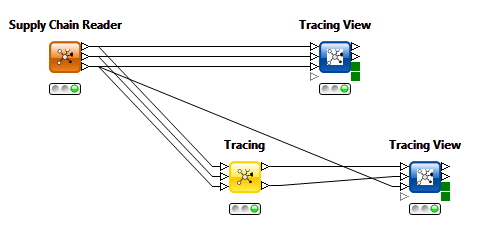
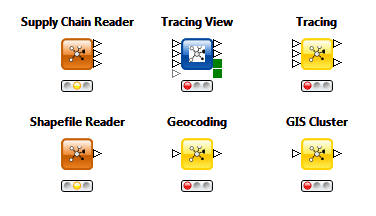
foodchainlab overview updated

diff --git a/GitHubPages/documents/foodchainlab_overview/overview.tex b/GitHubPages/documents/foodchainlab_overview/overview.tex
@@ -12,25 +12,40 @@
  
 \begin{document}
 \maketitle
- 
-\section{Tracing}
+
+\section{Available Nodes}
 \begin{frame}
 	\begin{center}
   		\includegraphics[height=0.4\textheight]{1.png}
 	\end{center}
 	\begin{itemize}
-		\item
+		\item Detailed descriptions all nodes are available in the \textbf{Node Description} view of KNIME.
+		\item All inputs and outputs are either \textbf{data tables} (triangles) or \textbf{images} (green square). Therefore standard KNIME nodes (\textbf{Row Filter}, \textbf{Image Port Writer}, ...) can be used in FoodChain-Lab workflows.		
+	\end{itemize}
+\end{frame}
+ 
+\section{Tracing}
+\begin{frame}
+	\begin{center}
+  		\includegraphics[height=0.4\textheight]{2.png}
+	\end{center}
+	\begin{itemize}
+		\item Supply chain data is read from the internal database via the \textbf{Supply Chain Reader}.
+		\item This data can be visualized with the \textbf{Tracing View}. The \textbf{Tracing View} also allows to perform a tracing on the data.
+		\item The \textbf{Tracing} node performs tracing without visualization. Its output can be used in the \textbf{Tracing View} (e.g. to perform some tracings as a preprocessing step)
 	\end{itemize}
 \end{frame}
 
 \section{Using GIS data}
 \begin{frame}
 	\begin{center}
-  		\includegraphics[height=0.6\textheight]{2.png}
+  		\includegraphics[height=0.6\textheight]{3.png}
 	\end{center}
 	\begin{itemize}
-		\item
-	\end{itemize}
+		\item The \textbf{Geocoding} node allows to acquire latitude/longitude data from addresses.
+		\item This data can be geographically clustered with the \textbf{GIS Cluster} node.
+		\item The \textbf{Tracing View} allows geographical visualization, if GIS data is provided from the \textbf{Shapefile Reader}.
+	\end{itemize}		
 \end{frame}
 
 \end{document}
